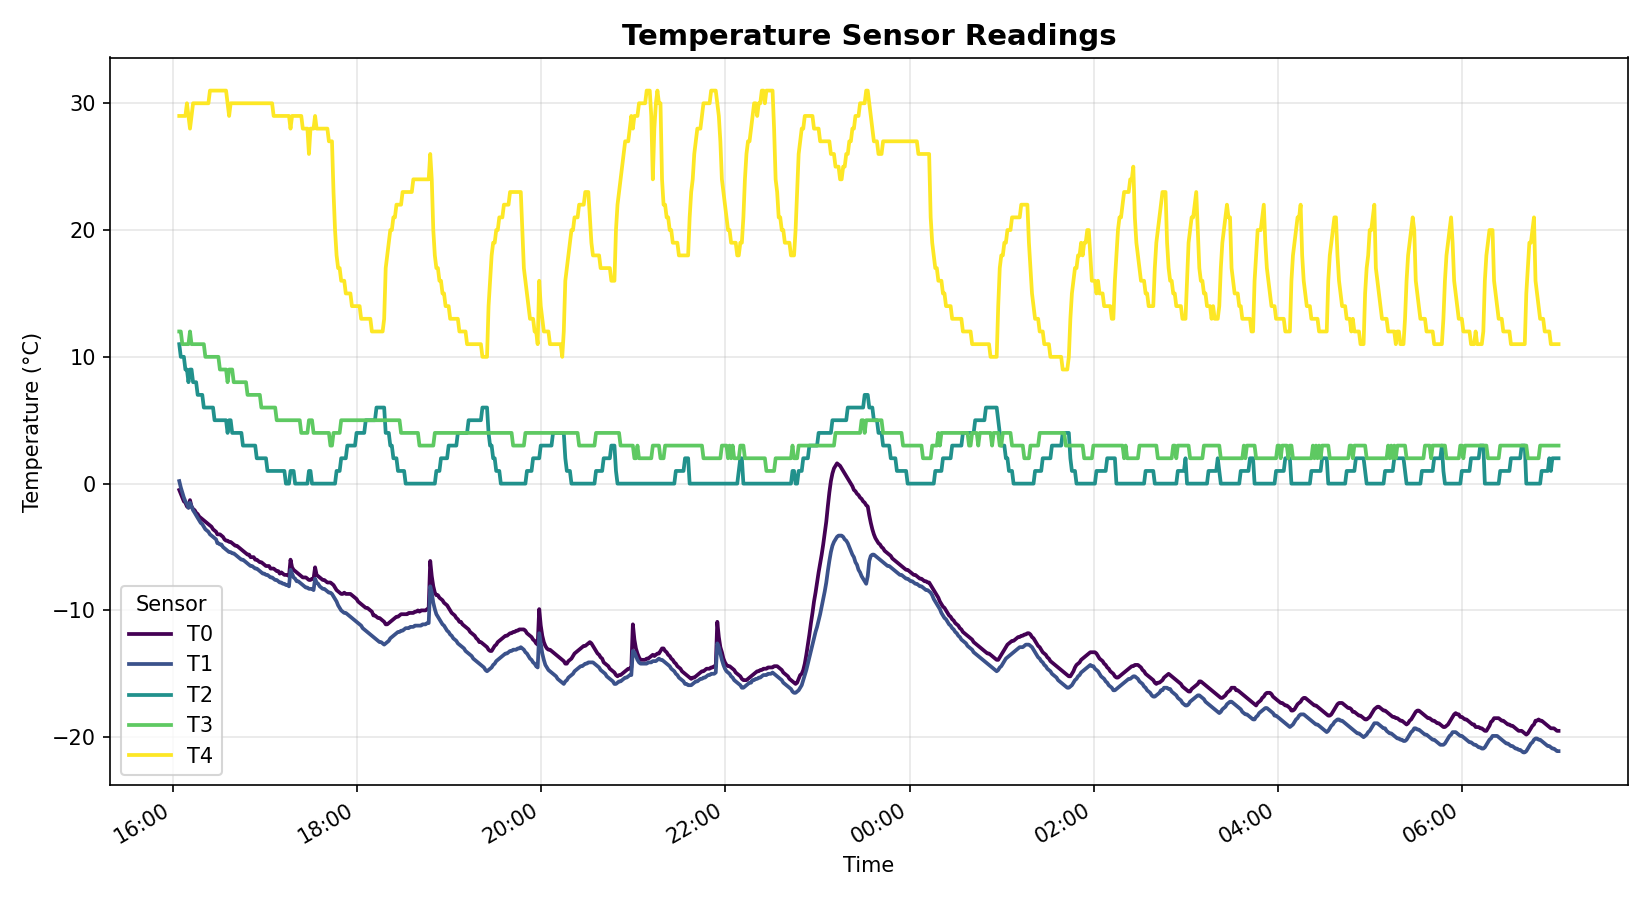
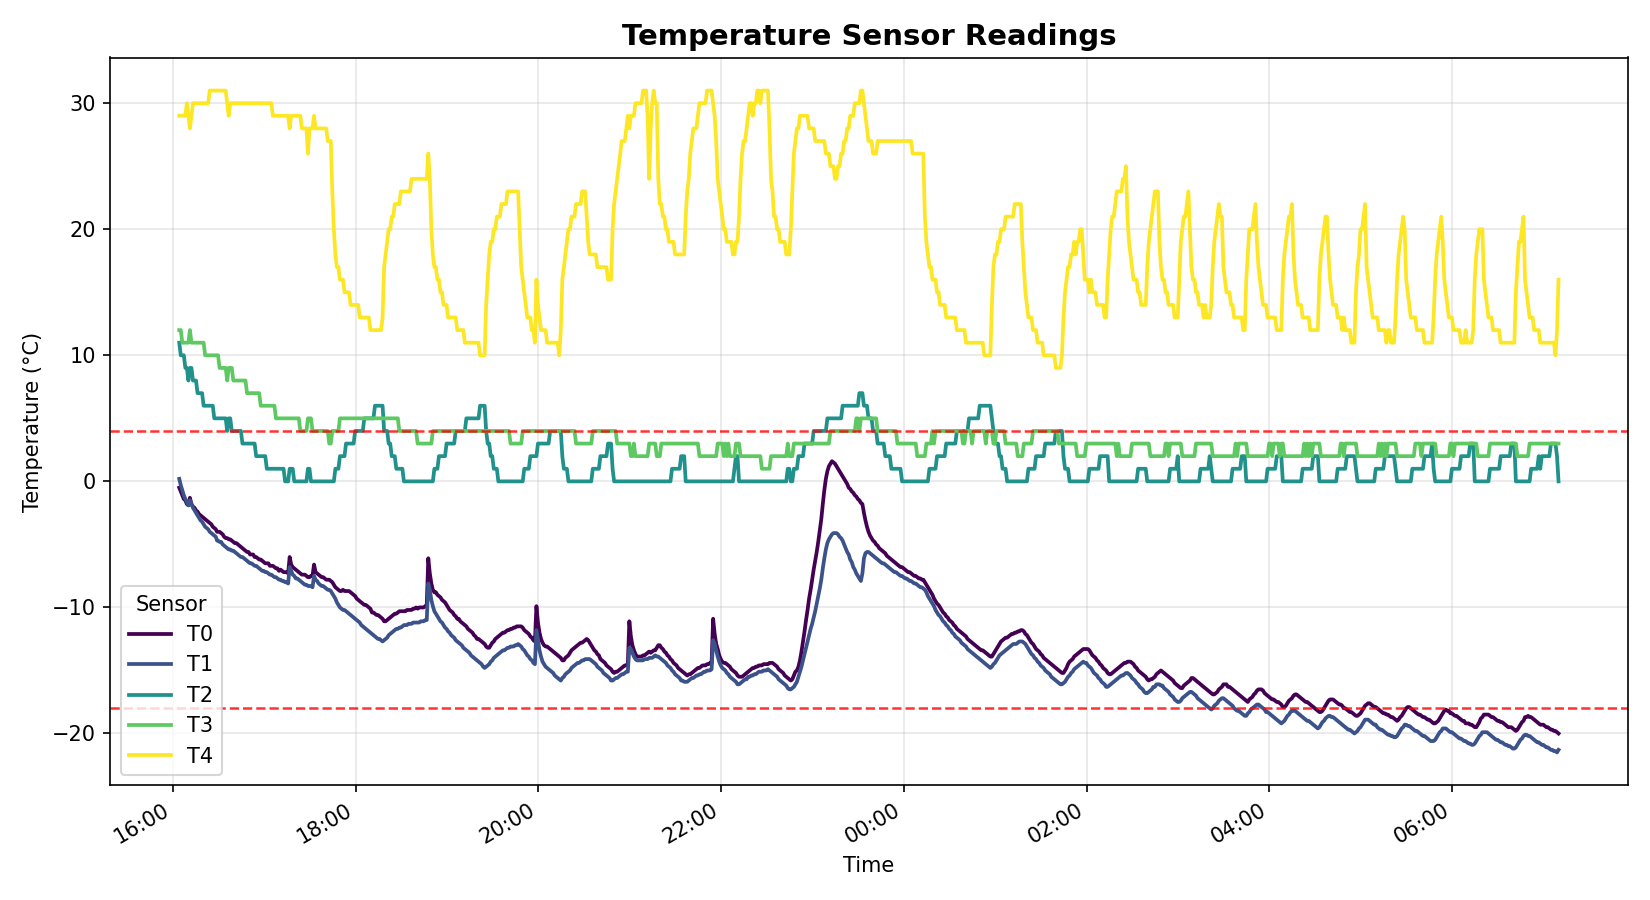
Update temperature plot 2026-08-04 07:09

diff --git a/plot_temps.py b/plot_temps.py
@@ -11,14 +11,12 @@ Usage:
     python3 plot_temps.py
 
     # Specify host and/or time range
-    python3 plot_temps.py --host 10.0.0.64 --from "2026-08-03T16:04" --to "2026-08-03T18:16"
+    python3 plot_temps.py --host 10.0.0.64 --from "2026-08-03T00:00" --to "2026-08-04T00:00"
 
     # Skip downloading and just plot a CSV you already have
     python3 plot_temps.py --csv data.csv
 
-Run this on a machine that's actually on the same local network as the
-device (e.g. your own computer) -- it won't work from a sandboxed/cloud
-environment that has no route to your LAN.
+Run this on a machine that's actually on the same local network as the device.
 """
 
 import argparse
@@ -32,7 +30,7 @@ import matplotlib.dates as mdates
 
 DEFAULT_HOST = "10.0.0.64"
 DEFAULT_FROM_TS = "2026-08-03T00:00"
-DEFAULT_TO_TS = "2026-08-05T00:00"
+DEFAULT_TO_TS = "2026-08-13T00:00"
 
 
 def download_csv(host: str, from_ts: str, to_ts: str, dest_path: str, timeout: float = 15.0) -> str:
@@ -63,6 +61,9 @@ def plot_temperatures(csv_path: str, output_path: str) -> None:
 
     for col, color in zip(sensor_cols, colors):
         ax.plot(df["Time"], df[col], label=col, color=color, linewidth=1.8)
+
+    for threshold in (4, -18):
+        ax.axhline(threshold, color="red", linestyle="--", linewidth=1.2, alpha=0.8)
 
     ax.set_title("Temperature Sensor Readings", fontsize=14, fontweight="bold")
     ax.set_xlabel("Time")
